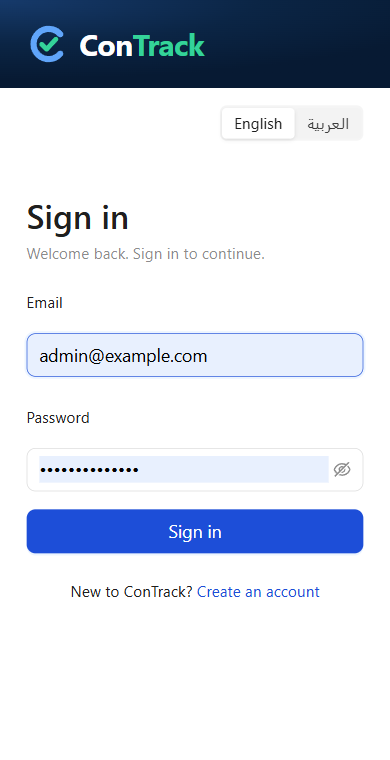
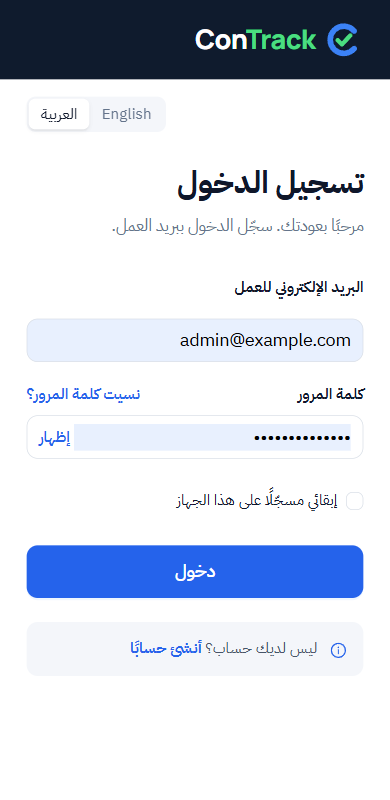
docs: record design adoption, scoped permissions and session choices; new screenshots

diff --git a/docs/decisions.md b/docs/decisions.md
@@ -9,7 +9,7 @@ confirms or changes an item, update this table and tick the issue.
 
 | ID | Question (13.2) | Default used | Where it lives / how to change |
 |---|---|---|---|
-| D-01 | Confirm final user roles and permissions. | The 6 roles of 2.3 and the 3.2 matrix. "Allowed" = granted but flagged for confirmation; "View" = read-only; "Limited" = restricted to own data. Property Managers are scoped to assigned properties, Employees to their assigned obligations. See [roles-and-permissions.md](./roles-and-permissions.md). | Seed data (`role_permissions`); changeable without code. |
+| D-01 | Confirm final user roles and permissions. | The 6 roles of 2.3 and the 3.2 matrix. "Allowed" = granted within the role's scope, shown as "Scoped", and flagged for confirmation; "View" = read-only; "Limited" = restricted to own data. Property Managers are scoped to assigned properties, Employees to their assigned obligations. See [roles-and-permissions.md](./roles-and-permissions.md). | Seed data (`role_permissions`); changeable without code. |
 | D-02 | One company or multi-tenant? | **Single company.** No tenant column. | Adding tenancy later means a `tenant_id` on top-level tables; IDs are UUIDs so data can be merged. |
 | D-03 | Final contract types. | The 10 types of 4.4. | `contract_types` lookup table (seed). |
 | D-04 | Can a contract be linked to multiple properties? | **Yes** (many-to-many), as FR-PROP-01 says "one or more". | `contract_properties` table. Restricting to one is a validation rule. |
@@ -57,3 +57,7 @@ e-mail delivery). Until then an address is not proven to belong to the person wh
 | T-11 | Frontend API types generated with `openapi-typescript`, run through `npx` with TypeScript 5. | `openapi-typescript` does not yet support TypeScript 6 as a peer; the generated file is committed, so CI does not need it. |
 | T-12 | Product name **ConTrack** (not translated); logo = open "C" track closing on a check. | Requested by the project owner. Brand assets and colours: [brand/README.md](./brand/README.md). |
 | T-13 | Administrators cannot deactivate themselves or remove their own Administrator role. | Prevents locking the system out of its only administrator. |
+| T-14 | **UI follows [design/ConTrack-UI.pdf](./design/ConTrack-UI.pdf)** (8 screens). Each module builds its screen from it; sidebar links to pages of later modules show a "coming soon" page until then. | Design supplied by the project owner on 2026-10-22. Fonts: Manrope + IBM Plex Sans Arabic (self-hosted via @fontsource, no external font requests). |
+| T-15 | "Keep me signed in on this device": unticked (default) = browser-session cookie and a 12-hour session; ticked = 7-day cookie. | Shared or public computers do not stay signed in by accident. `UNREMEMBERED_SESSION_HOURS`, `REFRESH_TOKEN_TTL_DAYS`. |
+| T-16 | "Forgot password?" explains that an administrator resets passwords until e-mail delivery exists (module 8). | Self-service reset needs e-mail. |
+| T-17 | Top-bar search and notification bell from the design are added with modules 7 (search) and 8 (notifications). | They would do nothing yet; showing dead controls misleads users. |

diff --git a/docs/traceability.md b/docs/traceability.md
@@ -34,13 +34,13 @@ UC-03, UC-04 and UC-05 are the workflows defined in SRS 9.1–9.3; the others ar
 
 | Requirement | Use case | Frontend | Backend | Test case | Module | Status |
 |---|---|---|---|---|---|---|
-| FR-AUTH-01 | UC-01 | Login page (`features/auth/LoginPage.tsx`) | `POST /auth/login`, `POST /auth/refresh` | TC-AUTH-01 | 1 auth-users-rbac | ✅ |
+| FR-AUTH-01 | UC-01 | Sign-in page (`features/auth/LoginPage.tsx`, design screen 1) incl. "Keep me signed in" | `POST /auth/login`, `POST /auth/refresh` | TC-AUTH-01 | 1 auth-users-rbac | ✅ |
 | FR-AUTH-02 | UC-01 | `RequireAuth` guard; token refresh + replay in `api/client.ts` | `get_current_user` on every non-public route | TC-AUTH-02 | 1 auth-users-rbac | ✅ |
-| FR-AUTH-03 | UC-01 | Permission-filtered menu, `RequirePermission` (403 page) | `require_permission()` + seeded 3.2 matrix | TC-AUTH-03 | 1 auth-users-rbac | ✅ |
+| FR-AUTH-03 | UC-01 | Permission-filtered sidebar (`components/nav.tsx`), `RequirePermission` (403 page), role matrix on Users & roles | `require_permission()` + seeded 3.2 matrix; `GET /roles` | TC-AUTH-03 | 1 auth-users-rbac | ✅ |
 | FR-AUTH-04 | UC-01 | Log out button | `POST /auth/logout` (session revoked, access token rejected at once) | TC-AUTH-04 | 1 auth-users-rbac | ✅ |
-| FR-USER-01 | UC-02 | Users list → New user form | `POST /users`; `python -m app.cli create-admin` | TC-USER-01 | 1 auth-users-rbac | ✅ |
+| FR-USER-01 | UC-02 | Users & roles (design screen 8) → Add user | `POST /users`; `python -m app.cli create-admin` | TC-USER-01 | 1 auth-users-rbac | ✅ |
 | FR-USER-02 | UC-02 | Edit user form (info, roles, password reset) | `PATCH /users/{id}` | TC-USER-02 | 1 auth-users-rbac | ✅ |
-| FR-USER-03 | UC-02 | Deactivate / Activate actions | `POST /users/{id}/deactivate`, `/activate` (sessions revoked) | TC-USER-03 | 1 auth-users-rbac | ✅ |
+| FR-USER-03 | UC-02 | Deactivate on the edit page, Reactivate in the list | `POST /users/{id}/deactivate`, `/activate` (sessions revoked) | TC-USER-03 | 1 auth-users-rbac | ✅ |
 | FR-AUD-01 | UC-12 | — | Audit service called by state-changing services | TC-AUD-01 | 2 audit-trail | ⏳ |
 | FR-AUD-02 | UC-12 | Audit log page | `audit_logs` schema, `GET /audit-logs` | TC-AUD-02 | 2 audit-trail | ⏳ |
 | FR-AUD-03 | UC-12 | — (read-only UI) | No write endpoints + DB trigger blocking UPDATE/DELETE | TC-AUD-03 | 2 audit-trail | ⏳ |

diff --git a/docs/api-standards.md b/docs/api-standards.md
@@ -113,7 +113,7 @@ Response:
 
 | Endpoint | Purpose |
 |---|---|
-| `POST /auth/login` | `{email, password}` → `{access_token, token_type: "bearer", expires_in, user}` and sets the refresh cookie. Wrong e-mail, wrong password and inactive account all return the same `401` ("Invalid email or password."). |
+| `POST /auth/login` | `{email, password, remember_me}` → `{access_token, token_type: "bearer", expires_in, user}` and sets the refresh cookie (persistent only when `remember_me` is true). Wrong e-mail, wrong password and inactive account all return the same `401` ("Invalid email or password."). |
 | `POST /auth/register` | Self sign-up (CR-01): `{email, full_name, password, preferred_language}` → `201` with the same body as login, and signs the user in. `409` if the e-mail is taken, `403` if sign-up is disabled. |
 | `GET /auth/options` | Public: `{self_signup_enabled}`, so the login page knows whether to show "Create an account". |
 | `POST /auth/refresh` | Uses the refresh cookie; returns a new access token and rotates the cookie. |

diff --git a/docs/brand/README.md b/docs/brand/README.md
@@ -20,11 +20,15 @@ The mark is two strokes only, so it stays recognisable at 16 px (browser tab).
 
 | Token | Hex | Used for |
 |---|---|---|
-| Navy | `#0B2545` | Header background, "Con" on light backgrounds |
-| Blue | `#1D4ED8` | The C on light backgrounds; primary buttons and links (Ant Design `colorPrimary`) |
-| Light blue | `#60A5FA` | The C on dark backgrounds |
+| Navy | `#0F1B2D` | Sidebar and sign-in brand panel (from the UI design) |
+| Ink | `#0B2545` | "Con" on light backgrounds |
+| Primary blue | `#2563EB` | Buttons, links, active tabs (Ant Design `colorPrimary`) |
+| Blue | `#1D4ED8` / `#3B82F6` | The C on light / dark backgrounds |
 | Green | `#059669` / `#047857` | The check and "Track" on light backgrounds (contrast-safe) |
-| Light green | `#34D399` | The check and "Track" on dark backgrounds |
+| Brand green | `#4ADE80` | The check and "Track" on dark backgrounds |
+| Page background | `#F4F6FA` | Behind panels |
+
+Fonts: **Manrope** (Latin) and **IBM Plex Sans Arabic** (Arabic), self-hosted.
 
 ## Name in Arabic
 

diff --git a/docs/roles-and-permissions.md b/docs/roles-and-permissions.md
@@ -42,7 +42,7 @@ Accounts created through **Create an account** get exactly one role, `employee` 
 | Cell value | Meaning in the system |
 |---|---|
 | **Yes** | Permission granted. |
-| **Allowed** | Permission granted, **flagged for business confirmation**. It is seeded exactly like "Yes"; the seed file marks it so it can be revoked in one place. |
+| **Allowed** | Permission granted **within the role's data scope**, and flagged for business confirmation. Shown as **Scoped** in the UI (as in the design). Listed in `PENDING_CONFIRMATION` in `users/rbac.py` and returned by `GET /roles` as `scoped_permissions`. |
 | **No** | Permission not granted. Requests are rejected with `403 Forbidden`. |
 | **View** | Read-only: Management can see obligations but not change them (`obligation:view` only). |
 | **Limited** | Granted, restricted to the user's data scope: an Employee's reports only count their own obligations. |

diff --git a/docs/database-schema.md b/docs/database-schema.md
@@ -71,7 +71,7 @@ erDiagram
 
 **`user_roles`**: `user_id FK`, `role_id FK`, PK (`user_id`, `role_id`). A user's permissions are the union of their roles.
 
-**`user_sessions`**: `id`, `user_id FK`, `created_at`, `expires_at`, `revoked_at`, `user_agent`, `ip_address`. One row per login.
+**`user_sessions`**: `id`, `user_id FK`, `created_at`, `expires_at`, `revoked_at`, `remember` ("Keep me signed in"), `user_agent`, `ip_address`. One row per login.
 Access tokens carry the session id and every request checks `revoked_at`, so logout, deactivation and password reset
 take effect immediately (FR-AUTH-04, FR-USER-03).
 

diff --git a/README.md b/README.md
@@ -27,6 +27,7 @@ backend/     FastAPI application, migrations and tests
 frontend/    React single-page application
 docs/        SRS, architecture, database schema, roles, API standards, traceability, decisions
 docs/brand/  ConTrack logo files and colours
+docs/design/ UI design (ConTrack-UI.pdf) — the visual spec for every screen
 infra/       Local infrastructure helpers (Postgres init scripts)
 .github/     CI workflow, PR and issue templates
 docker-compose.yml   Local infrastructure (Postgres)
